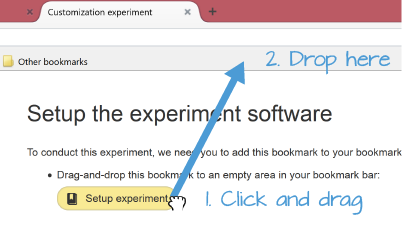
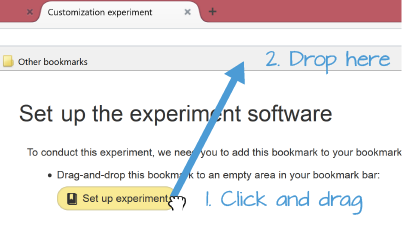
Updated the instruction to reflect the simplified setup process

Changed region(s): [[0.0299, 0.4487, 0.1493, 0.5385], [0.209, 0.8077, 0.2687, 0.8675]]

diff --git a/html/experiment-setup.html b/html/experiment-setup.html
@@ -23,12 +23,13 @@
   In <b>Internet Explorer</b>, right-click on the title bar at the top of the window, and choose "Favorites bar" in the contextual menu.</span>
       <br>
       <img id="instructionsBookmark" src="img/drag_bookmark.png">
-      <a class="bookmark" ng-href="{{state.bookmarkletCode}}"><img src="img/bookmark.png">Setup experiment</a>
+      <a class="bookmark" ng-href="{{state.bookmarkletCode}}"><img src="img/bookmark.png">Set up experiment</a>
     </li>
 
     <li>Go to the <b>Wunderlist</b> tab, and click on the bookmark you've just installed.</li>
-    <li>It should reload the page, then ask you to click it again.</li>
-    <li>A "Setup complete!" popup should appear.</li>
+    <li>Follow the instructions. Eventually, A "Setup complete!" popup should appear. <span class="help-link" ng-click="setupFailure= !setupFailure">Not working?</span>
+    <br><span class="help" ng-show="setupFailure">Open <a href="//www.wunderlist.com/webapp#/lists/inbox" target="_blank">this page</a>, then click on the "Set up experiment" bookmark you've just added to your bookmark bar. Wait 10-20 seconds for the experiment software to load.</span>    
+    </li>
   </ul>
 
   <button class="btn btn-primary" ng-click="goToNextPage()">Continue</button>
